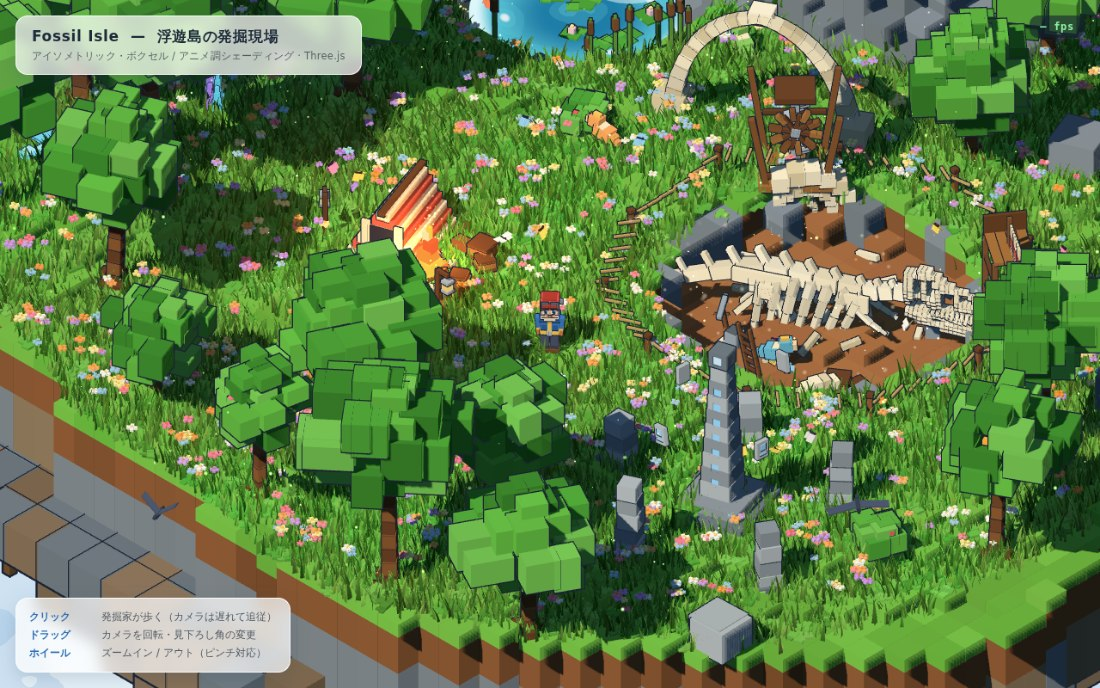
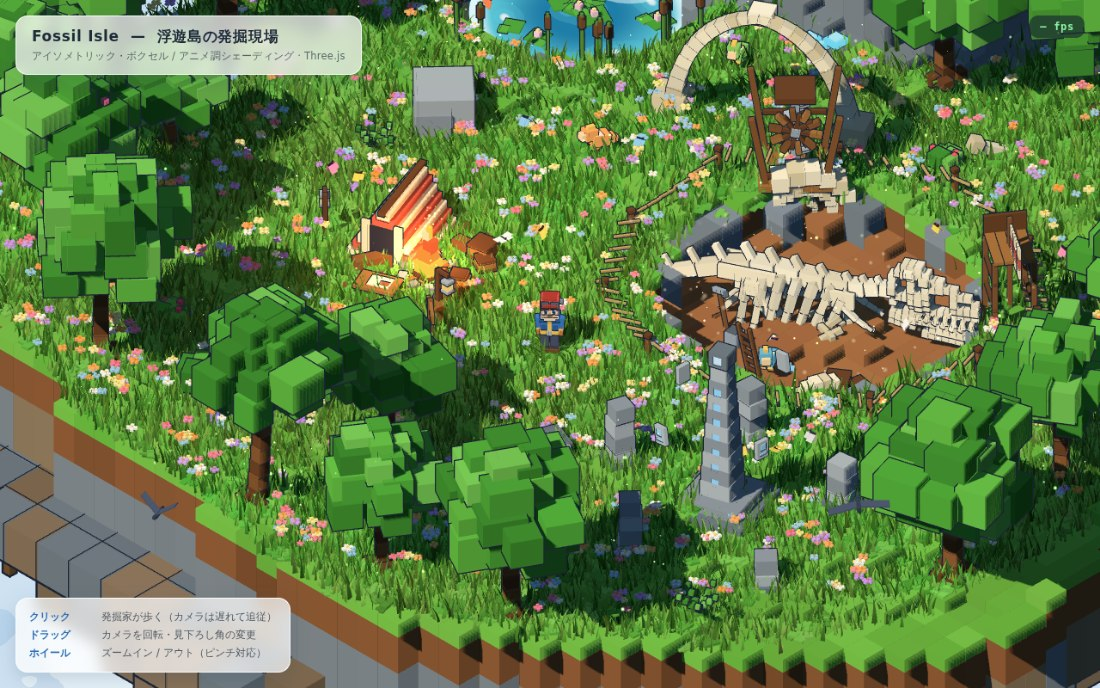
Halve the skull's grid again so its blocks match the rest of the scene
At 17x10 the skull was still finer than everything around it: one cell
was about half the thickness of a rib rod, so the head read as a mosaic
stuck onto chunky bones.

- Redraw the side and jaw grids at 13x8, which cuts the skull's block
  count roughly in half again and brings one cell up to about the width
  of a rib. The four openings survive at this size: naris, antorbital
  fenestra, a narrow keyhole orbit, and the lateral temporal fenestra,
  with one-cell lacrimal and postorbital bars between them.
- Grow the skull to 3.1 units so the blocks get bigger rather than the
  head getting smaller, and sit it lower on the neck; a T. rex is
  head-heavy so the larger head also reads correctly.
- Fewer, chunkier teeth to match.

Claude-Session: https://claude.ai/code/session_0125P2mU8XHrXdhLTmH6Xdx1

diff --git a/src/world/props.js b/src/world/props.js
@@ -309,31 +309,29 @@ function signpost(b, x, z, yaw) {
  * opening behind it, and a deep boxy back. No horns, no crest.
  */
 const TREX = {
-  cols: 17,
-  // side view, top row first
+  cols: 13,
+  // side view, top row first. Column 0 is the snout tip, 12 the occiput,
+  // row 0 the maxillary tooth row.
   skull: [
-    '...........###...',
-    '.........########',
-    '........##..#..##',
-    '......####..#..##',
-    '...#######..#..##',
-    '.##..#...##.#..##',
-    '##...#...########',
-    '######...####..##',
-    '######...###....#',
-    '###########......',
+    '........###..',
+    '.......#####.',
+    '.....###.#..#',
+    '...#####.#..#',
+    '.###...###..#',
+    '#..#...#####.',
+    '####...###..#',
+    '#########....',
   ],
-  // lower jaw: one row of coronoid above the tooth margin, then the dentary
+  // lower jaw: a coronoid bump above the tooth margin, then the dentary
   jaw: [
-    '............###..',
-    '.################',
-    '.########..######',
-    '.#############...',
-    '..#######........',
+    '.........##..',
+    '.############',
+    '.######..####',
+    '..######.....',
   ],
   jawTopRow: 1,          // index in `jaw` that lines up with the tooth margin
-  // half-width per column, in cells: narrow snout, broad braincase
-  wide: [2.0, 2.1, 2.2, 2.3, 2.4, 2.5, 2.7, 2.9, 3.2, 3.5, 3.9, 4.3, 4.7, 5.1, 5.3, 5.1, 4.6],
+  // full width per column, in cells: narrow snout, broad braincase
+  wide: [1.9, 2.0, 2.1, 2.2, 2.4, 2.6, 2.9, 3.2, 3.6, 3.9, 4.0, 3.8, 3.4],
 };
 
 /** Half-width multiplier across the skull's height: an arch, not a slab. */
@@ -389,13 +387,13 @@ export function trexSkull(b, base, ox, oy, oz, tilt, rnd, opts = {}) {
   };
   // the rugose lumps a T. rex carries on the lacrimal and postorbital
   for (const s of [-1, 1]) {
-    put(skullM, xOf(9.4), cell * 6.6, s * surfaceZ(9, 6.6), cell * 1.5, cell * 1.3, cell * 0.9, 0.95);
-    put(skullM, xOf(12.4), cell * 8.4, s * surfaceZ(12, 8.4), cell * 1.4, cell * 1.2, cell * 0.9, 0.95);
+    put(skullM, xOf(7.2), cell * 5.3, s * surfaceZ(7, 5.3), cell * 1.3, cell * 1.1, cell * 0.8, 0.95);
+    put(skullM, xOf(9.3), cell * 6.4, s * surfaceZ(9, 6.4), cell * 1.2, cell * 1.0, cell * 0.8, 0.95);
   }
-  put(skullM, xOf(16) - cell * 0.55, cell * 3.0, 0, cell * 0.9, cell * 1.1, cell * 1.1, 0.94);
+  put(skullM, xOf(12) - cell * 0.5, cell * 2.4, 0, cell * 0.8, cell * 1.0, cell * 1.0, 0.94);
 
   // --- lower jaw, hinged open at the articulation --------------------------
-  const px = xOf(15.6), py = 0;
+  const px = xOf(11.7), py = 0;
   const jawM = new THREE.Matrix4().makeTranslation(px, py - cell * 0.95, 0)
     .multiply(new THREE.Matrix4().makeRotationZ(-jawDrop))
     .multiply(new THREE.Matrix4().makeTranslation(-px, -py, 0))
@@ -413,17 +411,17 @@ export function trexSkull(b, base, ox, oy, oz, tilt, rnd, opts = {}) {
   }
 
   // --- teeth --------------------------------------------------------------
-  const toothLen = (c) => 1.0 + 1.5 * Math.exp(-Math.pow((c - 3.4) / 3.6, 2));
-  for (let c = 0.4; c < 10.4; c += 1.1) {
+  const toothLen = (c) => 0.85 + 1.15 * Math.exp(-Math.pow((c - 2.6) / 2.8, 2));
+  for (let c = 0.3; c < 8.4; c += 1.3) {
     const L = toothLen(c) * cell;
-    const z = surfaceZ(Math.min(Math.round(c), 10), 0.4) * 0.94;
+    const z = surfaceZ(Math.min(Math.round(c), 8), 0.4) * 0.94;
     const x = xOf(c);
     for (const s of [-1, 1]) {
       rod(b, skullM, [x, -cell * 0.35, s * z], [x - L * 0.3, -cell * 0.35 - L, s * z * 0.94],
-        cell * 0.72, bone(), { tint: 1.05 }, 0);
+        cell * 0.6, bone(), { tint: 1.05 }, 0);
       const L2 = L * 0.8;
       rod(b, jawM, [x, cell * 0.4, s * z * 0.92], [x - L2 * 0.24, cell * 0.4 + L2, s * z * 0.88],
-        cell * 0.62, bone(), { tint: 1.05 }, 0);
+        cell * 0.52, bone(), { tint: 1.05 }, 0);
     }
   }
   b.setTransform(null);
@@ -532,8 +530,8 @@ export function fossilBeast(b, rnd, cx, cz, yaw) {
 
   // --- skull, carried forward at the end of the neck ----------------------
   const head = spine[spine.length - 1];
-  const skullLen = 2.65;
-  trexSkull(b, base, head[0] + 0.08, head[1] - skullLen * (2.4 / 17), head[2], 0.04, rnd,
+  const skullLen = 3.1;
+  trexSkull(b, base, head[0] + 0.06, head[1] - skullLen * (2.5 / 13), head[2], 0.04, rnd,
     { len: skullLen, jawDrop: 0.13 });
   b.setTransform(null);
 }
@@ -870,7 +868,7 @@ export function buildProps(scene) {
   /* ---- the dig pit ---- */
   const pit = CFG.pit;
   claim(pit.x, pit.z, pit.r + 1.5);
-  fossilBeast(statics, rnd, pit.x - 2.2, pit.z + 0.6, 0.46);
+  fossilBeast(statics, rnd, pit.x - 2.7, pit.z + 0.8, 0.46);
   ammonite(statics, rnd, pit.x - 4.6, CFG.pit.floor + 1.6, pit.z - 3.8, 0.9, 1.0);
   ammonite(statics, rnd, pit.x + 3.6, CFG.pit.floor + 1.2, pit.z + 3.9, -1.9, 0.6);
   scaffold(statics, pit.x + 5.0, pit.z - 4.2, -0.6);

diff --git a/tools/skull-profile.html b/tools/skull-profile.html
@@ -13,7 +13,7 @@ const b = new VoxelBuilder();
 const rnd = mulberry32(7);
 const whole = location.search.includes('body');
 if (whole) fossilBeast(b, rnd, 0, 0, 0);
-else trexSkull(b, new THREE.Matrix4(), 0, 0, 0, 0, rnd, { len: 2.3, jawDrop: 0.13 });
+else trexSkull(b, new THREE.Matrix4(), 0, 0, 0, 0, rnd, { len: 3.1, jawDrop: 0.13 });
 const geo = b.build();
 const m = new THREE.Mesh(geo, toonMaterial({ vertexColors: true }));
 m.add(new THREE.Mesh(geo, outlineMaterial(0.012)));

diff --git a/README.md b/README.md
@@ -44,7 +44,8 @@ python3 -m http.server 8080
 `aExpand`（ボックス中心からの符号ベクトル）で押し出すため、箱の角に隙間が出ません。
 
 **化石** — 骨は接線方向に回した箱を細らせながら繋いだテーパーロッド。
-頭骨は 17×10 のグリッドに側面図を**1 セルずつ手描き**しています（`TREX.skull`）。
+頭骨は 13×8 のグリッドに側面図を**1 セルずつ手描き**しています（`TREX.skull`）。
+ブロック 1 個が肋骨ロッドとほぼ同じ太さになる粒度で、周囲のボクセルと density を揃えてあります。
 解剖学的な曲線をこのブロックサイズでサンプリングすると涙骨バー・後眼窩バー・眼窩上の骨梁
 といった細い骨が消えて破綻するため、ドット絵として直接描くほうが確実でした。
 長く低い吻部、巨大な前眼窩窓、高い位置の鍵穴形の眼窩、その後ろの側頭窓、深く角ばった後頭部。
